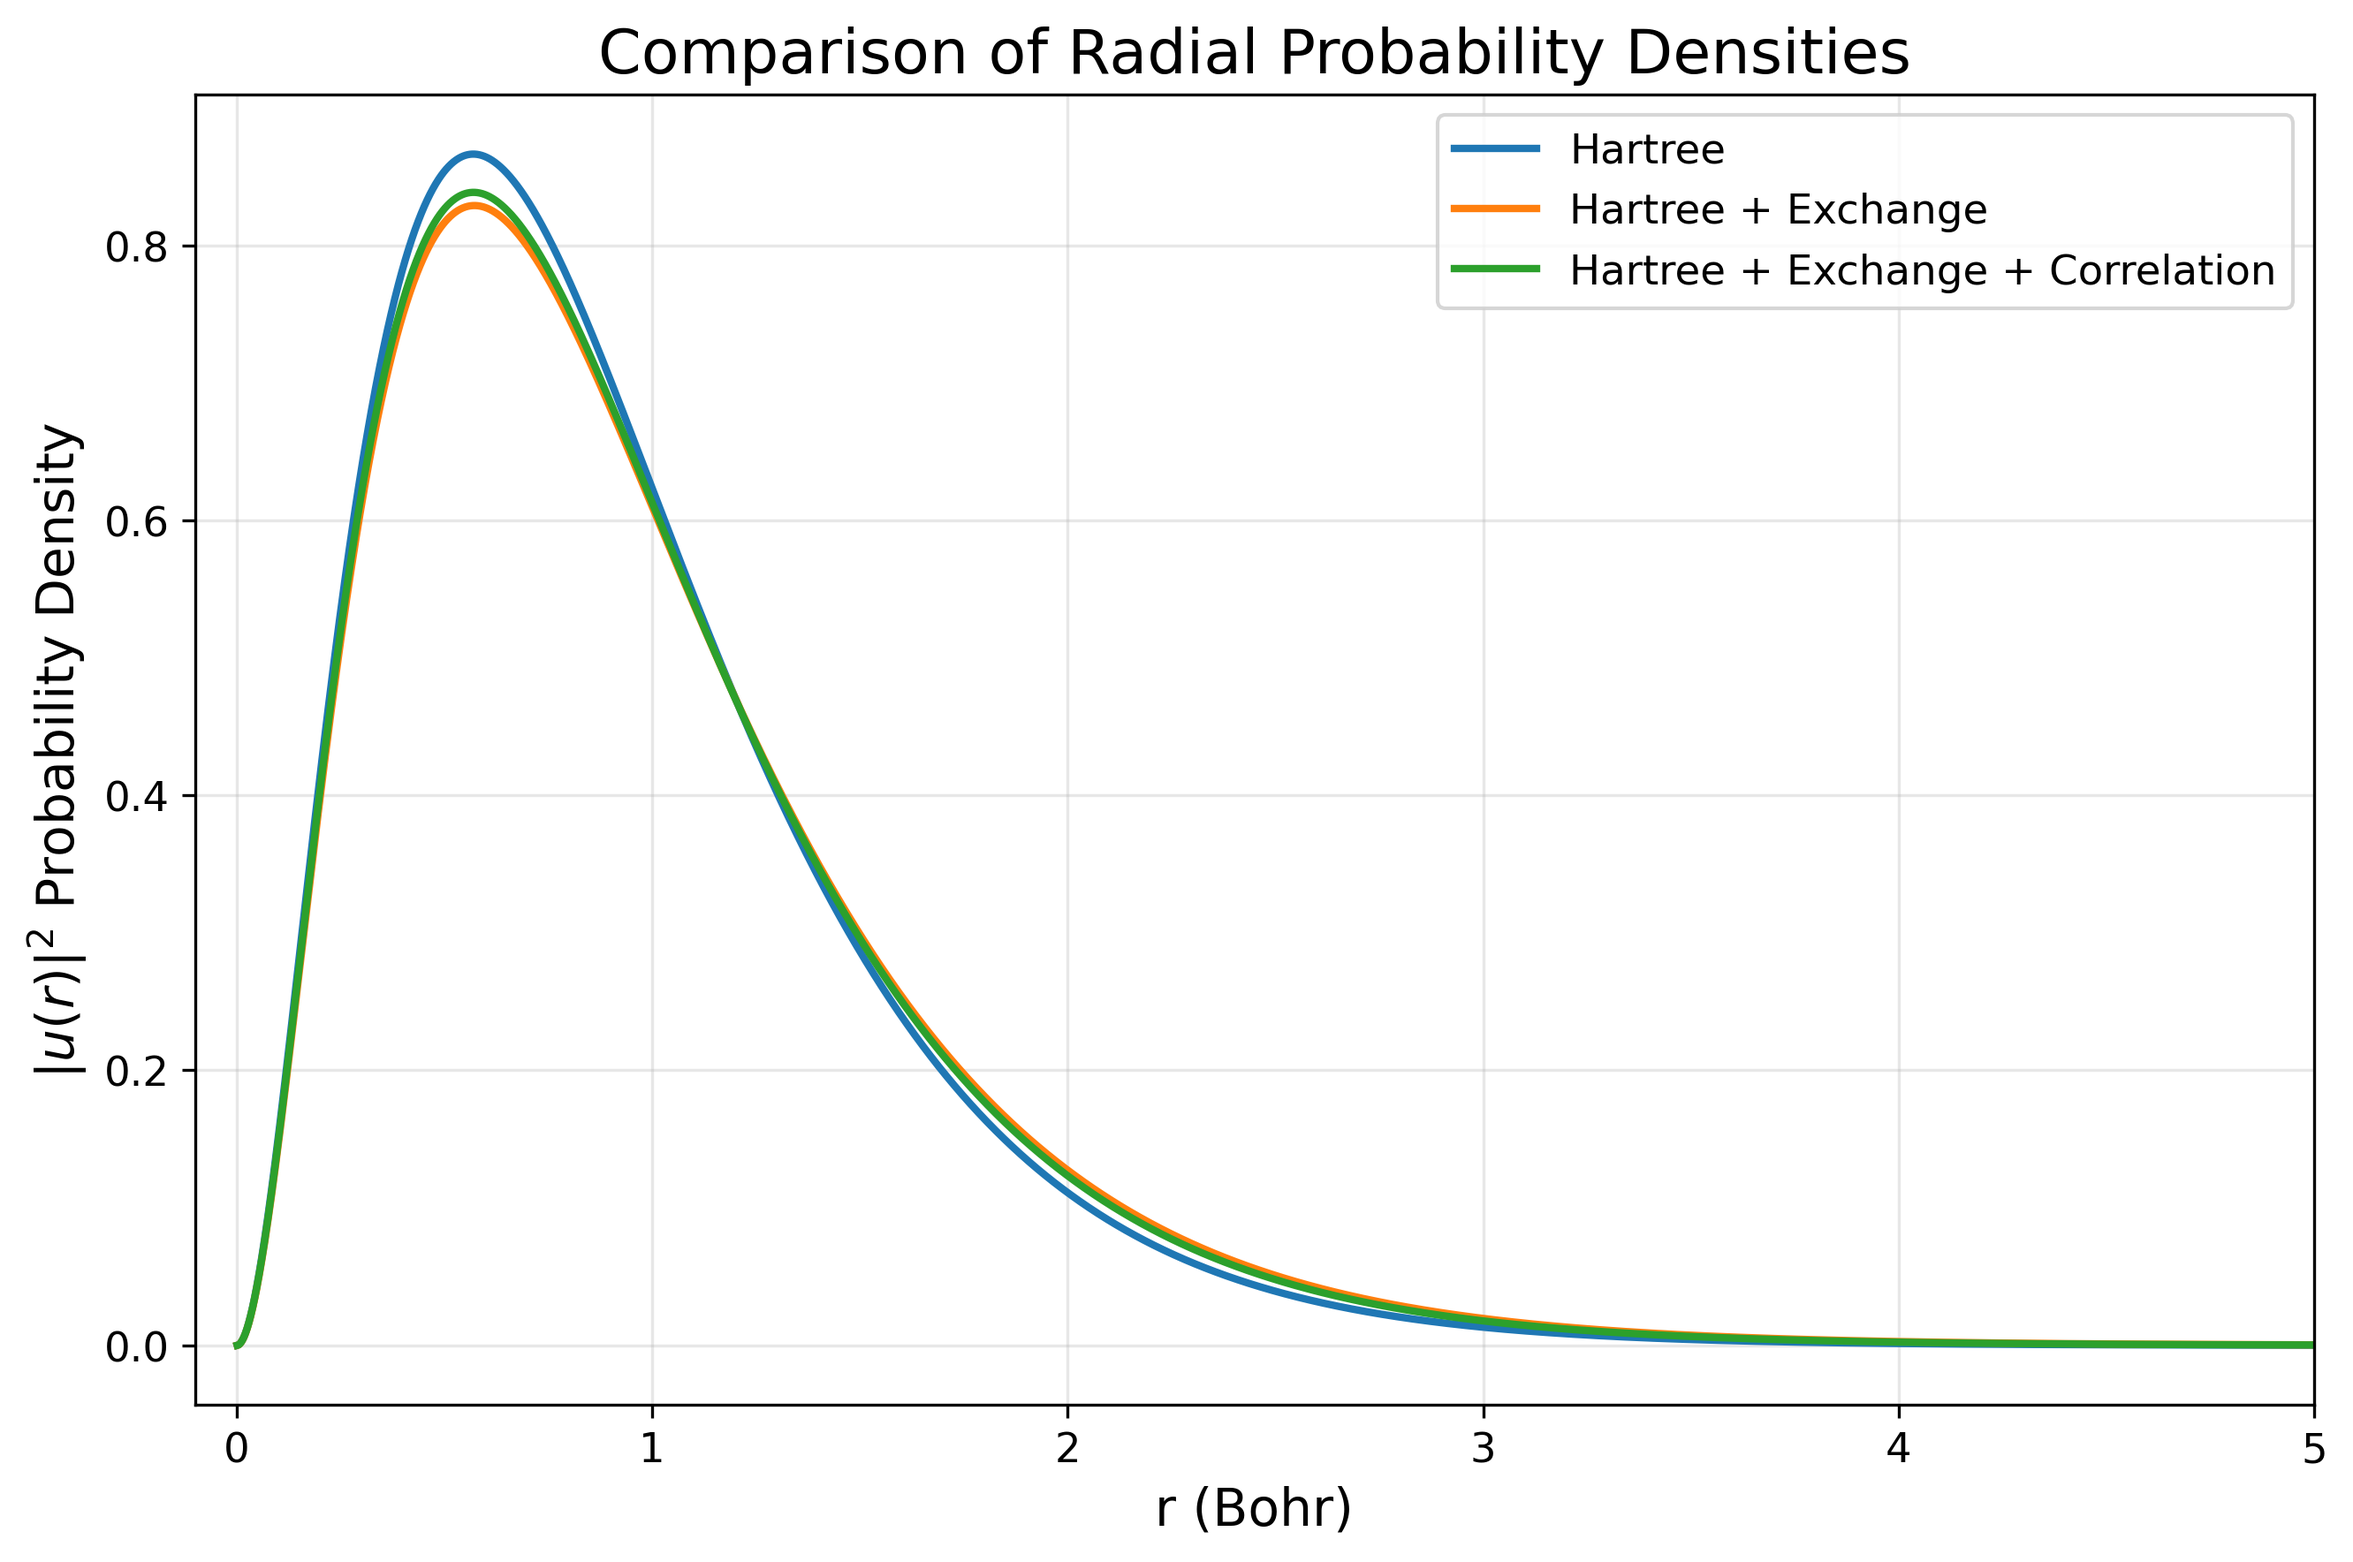
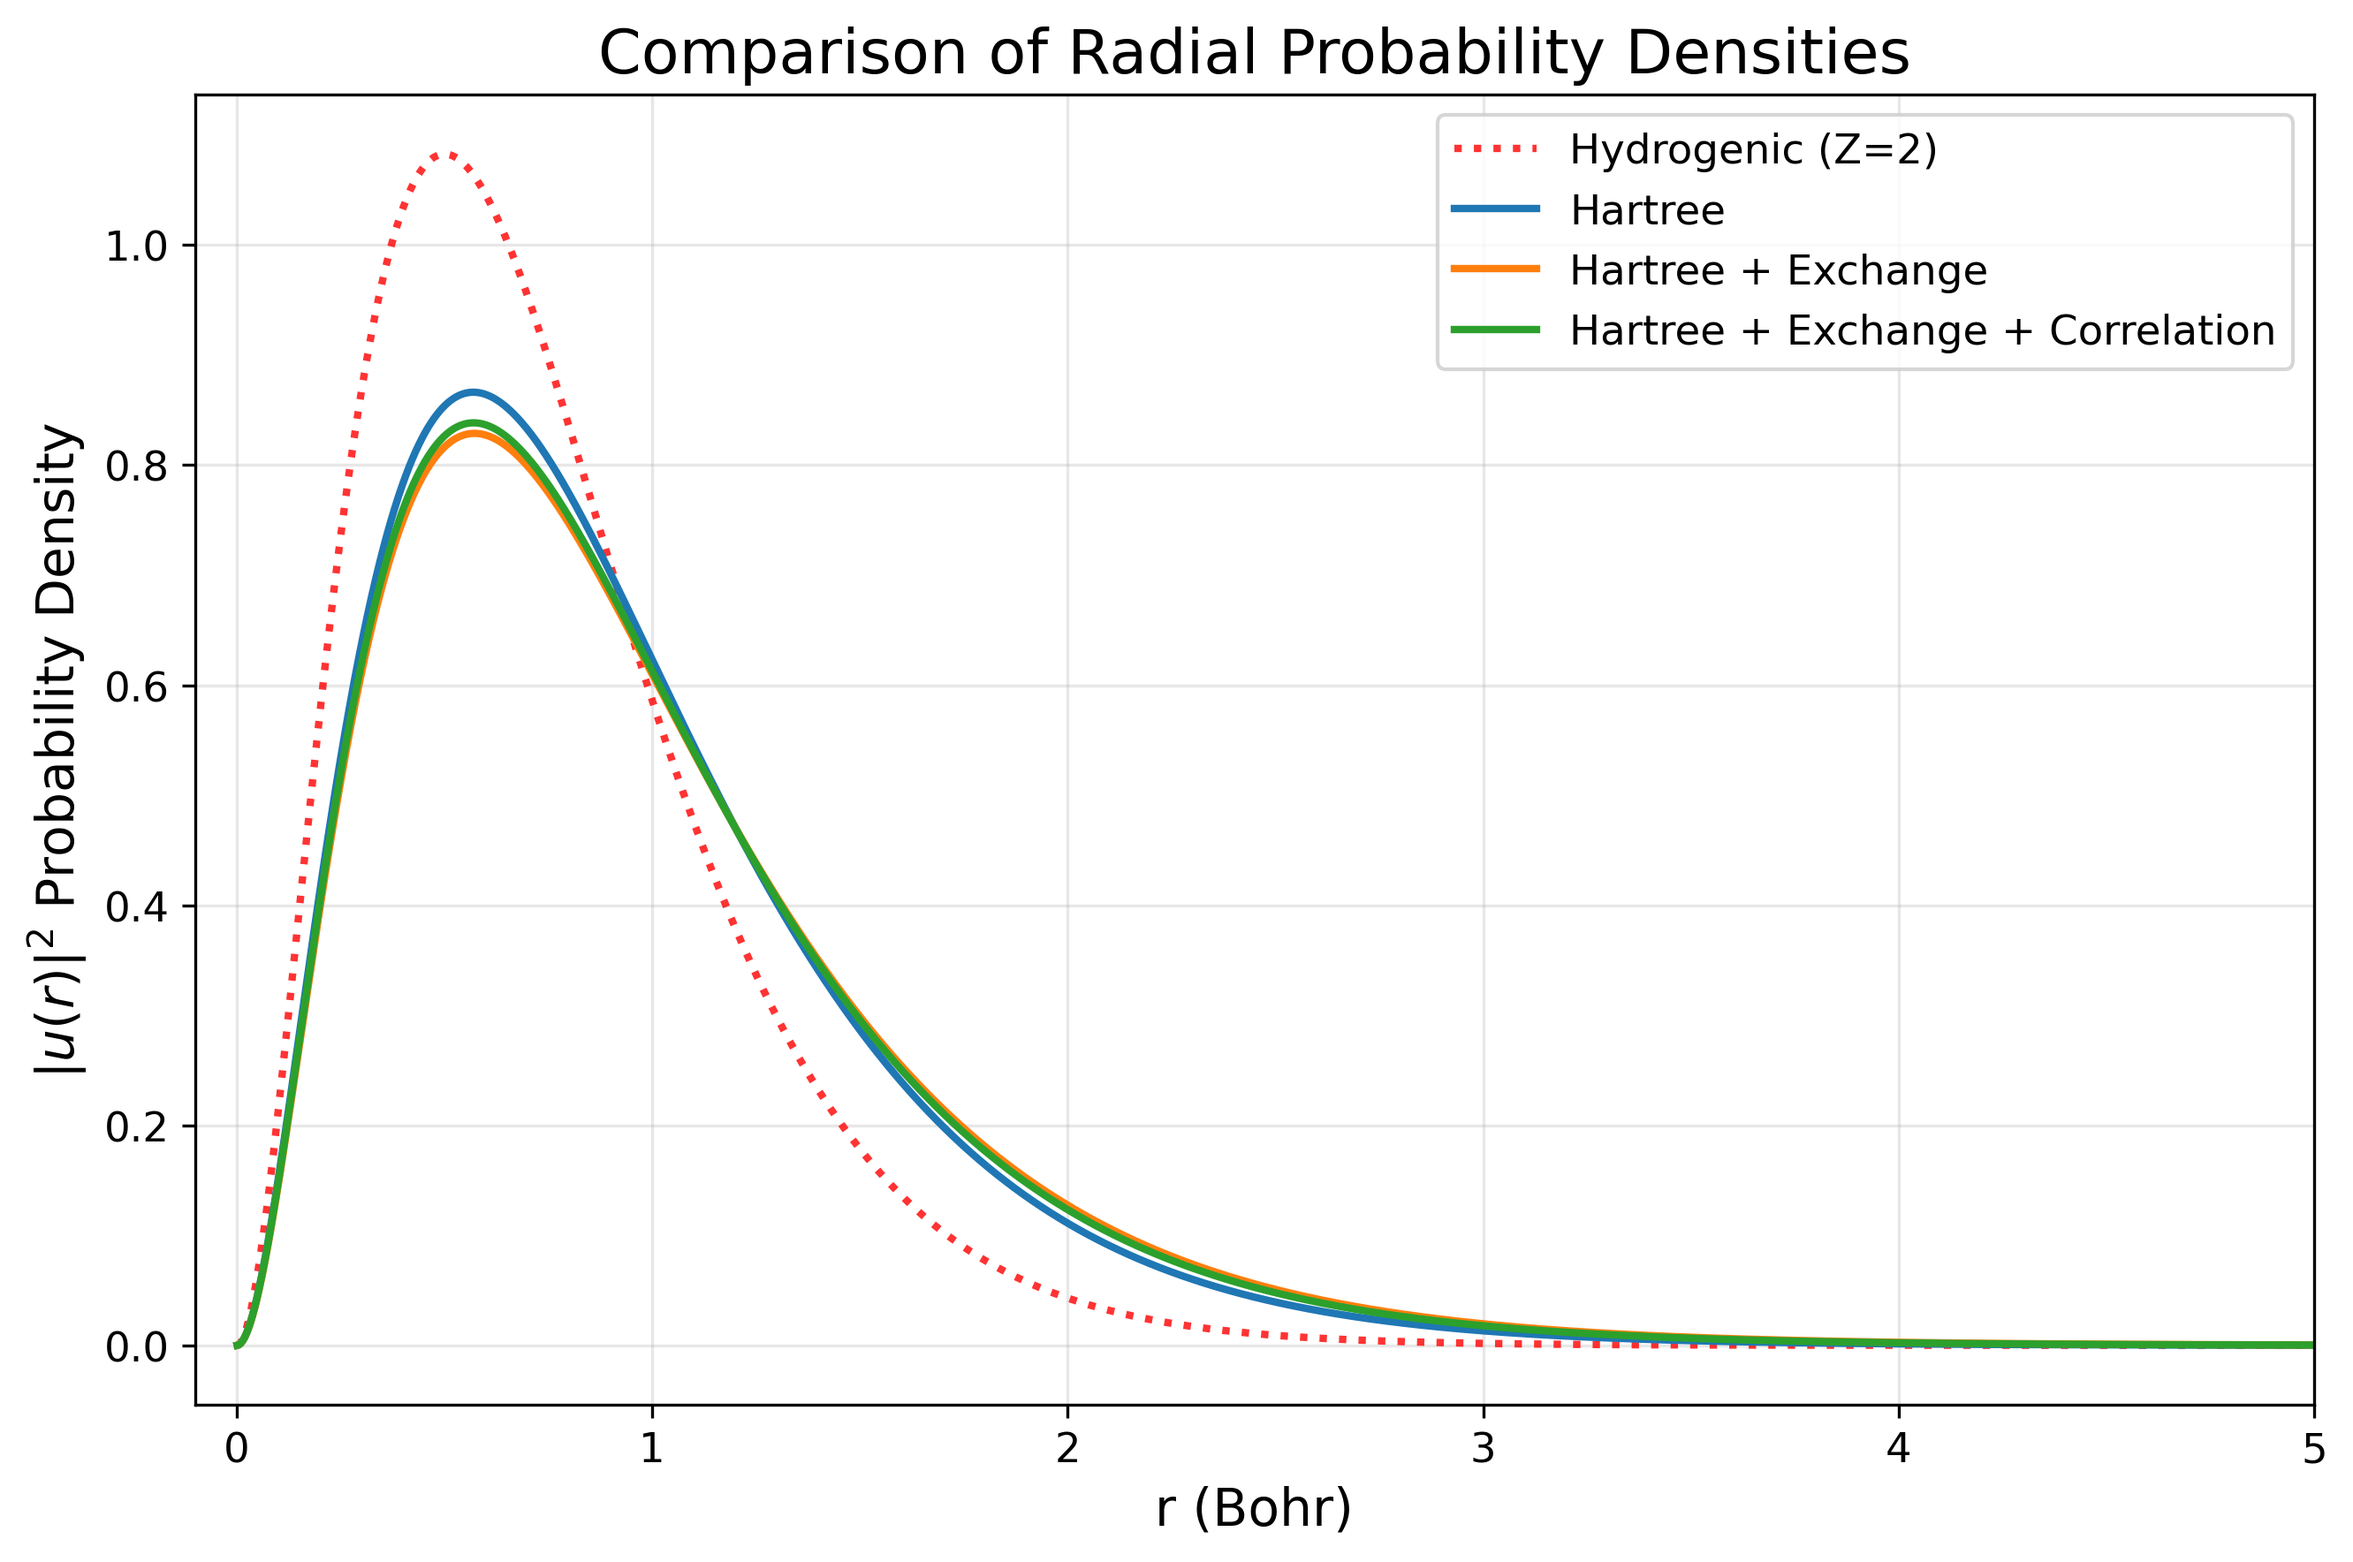
Updated README

diff --git a/README.md b/README.md
@@ -19,12 +19,16 @@ The goal of this project is to implement a **Self-Consistent Field (SCF)** solve
 - [Available Models](#available-models)
 - [Implementation](#implementation)
   - [Self-Consistent loop](#self-consistent-loop)
+    - [Convergence example](#convergence-example)
   - [Shrödinger Equation Integration](#shrödinger-equation-integration)
   - [Hartree potential via Poisson equation](#hartree-potential-via-poisson-equation)
   - [Treatment of the Hartree Potential](#treatment-of-the-hartree-potential)
 - [Results](#results)
   - [Total energy and Ionization Energy](#total-energy-and-ionization-energy)
-  - [Charge distribution](#charge-distribution)
+  - [Charge Distribution](#charge-distribution)
+  - [Potential Landscape](#potential-landscape)
+  - [Discussion](#discussion)
+- [Conclusions](#conclusions)
 
 ---
 
@@ -399,21 +403,24 @@ By changing `use_exchange` and `use_correlation` boolean values in the `config.y
 
 - Hartree-only mode:
 
-$$
-V_\mathrm{eff}(r) = V_\mathrm{ext}(r) + V_H(r)
-$$
+  $$
+  V_\mathrm{eff}(r) = V_\mathrm{ext}(r) + V_H(r)
+  $$
+
+  >Note:
+  >In this case the used potential is actually half of the full Hartree potential ($\frac{1}{2}V_\mathrm{H}$), meaning that it is calculated from the electronic density of a single electron. This is a way to forcibly remove the self-interaction.
 
 - Hartree + exchange mode:
 
-$$
-V_\mathrm{eff}(r) = V_\mathrm{ext}(r) + V_H(r) + V_x(r)
-$$
+  $$
+  V_\mathrm{eff}(r) = V_\mathrm{ext}(r) + V_H(r) + V_x(r)
+  $$
 
 - Hartree + exchange + correlation mode:
 
-$$
-V_\mathrm{eff}(r) = V_\mathrm{ext}(r) + V_H(r) + V_x(r) + V_c(r)
-$$
+  $$
+  V_\mathrm{eff}(r) = V_\mathrm{ext}(r) + V_H(r) + V_x(r) + V_c(r)
+  $$
 
 ---
 
@@ -460,6 +467,14 @@ $$
 $$
 
 and $n^{(0)}(r)$ is used to calculate $V_H^{(0)}$ , $V_x^{(0)}$ and $V_c^{(0)}$.
+
+#### Convergence example
+
+The plot below shows a representative self-consistent convergence run for the Hartree + Exchange + Correlation case. The blue curve reports the total energy (left y-axis), while the red curve shows the iteration-to-iteration change $\Delta E$ (right y-axis, logarithmic scale).
+
+![Self consistent energy convergence](visualization/image.png)
+
+The total energy quickly approaches a stable plateau, at the same time, the iteration-to-iteration change $\Delta E$ drops by several orders of magnitude, confirming that the SCF cycle has reached convergence.
 
 ### Shrödinger Equation Integration
 The Shrödinger equation integrations are performed by the function `solve_schrodinger` in `source/solver.py`. This function combine the bisection method through `bisect` from `scipy.optimize`, with the Verlet algorithm for integration which is implemented by the function `verlet_integrate_1D` in `source/solver.py`.
@@ -536,7 +551,7 @@ $$
 
 This is implemented by the `get_V_h` function in `source/dft_potentials.py`.
 
-Using the Laplacian in sphericla coordinates:
+Using the Laplacian in spherical coordinates:
 
 $$
 \nabla ^2 V_H = \frac{1}{r}\frac{d^2}{dr^2}(rV_H).
@@ -634,6 +649,42 @@ The following table summarizes the computed ground state energy of the Helium at
 
 All values are expressed in atomic units (Hartree). For the experimental single electron eigenvalue, the listed value is the negative of the first ionization energy $(-I_1)$.
 
-### Charge distribution
+### Charge Distribution
+
+The figure below displays the electronic probability density $|u(r)|^2$ in the three different approximation levels, together with the solution for the hydrogenic model ($V_\text{eff}=V_\text{nuc}$). Note that in this figure $V_\mathrm{eff}$ excludes the nuclear potential that is plotted aside.
+
 ![Energy convergence across different DFT models](visualization/comparison_radial_density.png)
 
+### Potential Landscape
+
+The figure below breaks down the components of the total effective potential ($V_\text{eff}$) for the fully correlated model.
+
+![Effective potential components](visualization/Hartree_Exchange_Correlation_potentials.png)
+
+This visualization highlights the competition between the attractive nuclear potential ($-Z/r$) and the repulsive Hartree screening ($V_H$), as well as the relative magnitudes of the Exchange ($V_x$) and Correlation ($V_c$) corrections.
+
+### Discussion
+From the density distribution plot it is clear that the introduction of the electron-electron introduction "inflate" the atomic density by shifting the probability density away from the nucleus.
+
+- In the **hydrogenic model** electrons occupies $1s$ orbital as if the other did not exist, feeling the nuclear attraction without any screening. For the density, this results in the highest peak located closer to the nucleus (high density close to the nucleus). The obtained energy of the system (**-4.00 a.u.**) diverges significantly from the experimental value of **-2.9037 a.u.**
+
+- In the **Hartree model**, the system get "destabilized" and the energy increase to **-2.8615 a.u.**, closer to the experimental value. The Hartree potential introduces electron-electron repulsion, this forces the orbital to expand, shifting the electron density peak outward and reducing its maximum height.
+
+- When switching to a standard KS-DFT setup, using **full Hartree potential plus the Exchange correction**, the total energy increases to **-2.7234 a.u.**, and the density further expand outward.This behavior is not indicative of an error, indeed the Hartree-only model uses half of the Hartree potential as an *ad hoc* modification to remove self-interaction, which leads to a fortuitous lowering of the energy through error cancellation.\
+In contrast, the DFT approach uses the full Hartree term and adds an explicit exchange potential, making the resulting density more physically motivated and more transferable, and therefore the density distribution is more trustworthy than the one obtained from the half-Hartree construction.
+
+- Finally in the **Hartree + Exchange + Correlation** model, the introduction of the correlation potential accounts for electron avoidance beyond the Pauli exclusion. In practice, this term corrects the overestimation of repulsion of the electron-electron repulsion of the Hartree + Exchange model. As a result, the system is stabilized and the total energy decreases to **-2.8340 a-u.**. Consistently, the density becomes slightly more contracted toward the nucleus compared to the exchange-only case.
+
+---
+
+## Conclusions
+
+A radial Kohn–Sham DFT solver for the helium atom was successfully implemented by progressively introducing electron–electron interaction terms. The simulations clearly illustrate the competition between nuclear attraction and electronic repulsion, and how reshapes the effective potential and the orbital.
+
+  - **Accuracy**: The fully correlated model (LDA with CA-Correlation) yields a ground state energy of -2.8340 a.u., achieving an accuracy within 2.4% of the experimental value (-2.9037 a.u.l).
+
+  - **Physical Insight**: The results highlight the "screening" effect of the Hartree potential, which drives orbital expansion, and the stabilizing role of Exchange and Correlation, which partially counteracts this expansion.
+
+  - **Limitations**: The remaining discrepancy between the calculated total energy and the experimental reference is attributable to well-known limitations of LDA
+
+Overall, this project offers a clear and compact implementation of a self-consistent Kohn–Sham solver, making it easy to inspect how different approximations (Hartree, exchange, correlation) modify the effective potential, the density, and the total energy.
